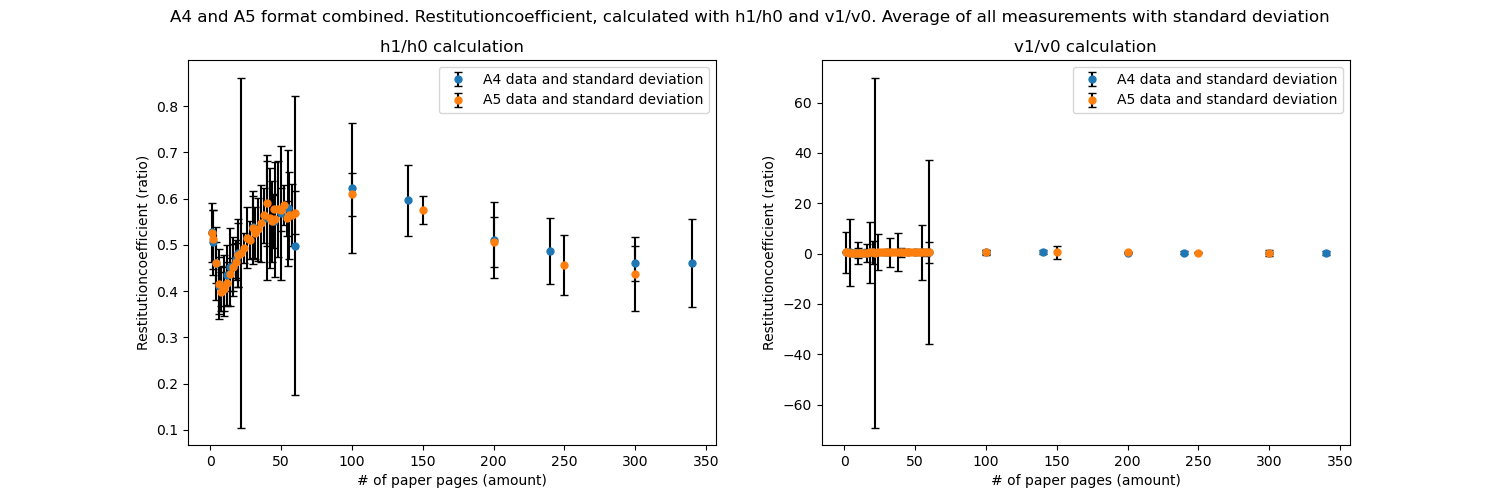
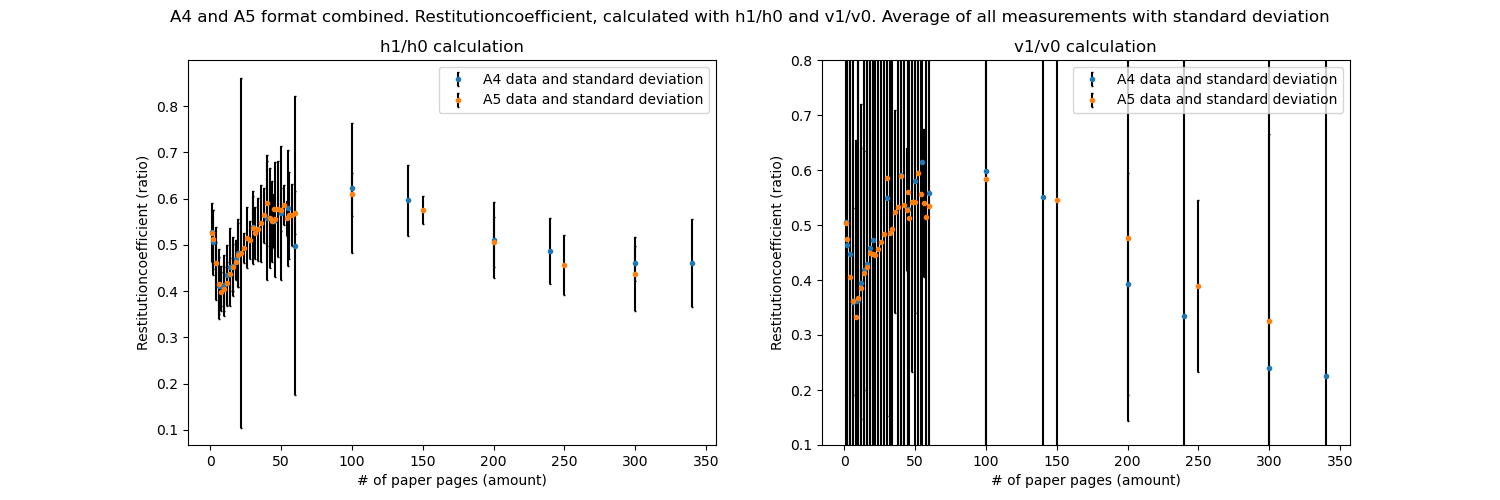
no changes (sync with laptop)

diff --git a/Code/AVG_SIGMA_PLOTTER.py b/Code/AVG_SIGMA_PLOTTER.py
@@ -9,13 +9,13 @@ import csv as csv
 import statistics as stat
 
 
-# A4_CSV = open('E:/Documents/GitHub/2025-Projects_Team-1-Bouncing-on-Paper-The-Surprising-Restitution-Coefficient-of-a-Paper-Stack-/Code/A4_sanitized_data.csv', 'r')
-# A5_B_CSV = open('E:/Documents/GitHub/2025-Projects_Team-1-Bouncing-on-Paper-The-Surprising-Restitution-Coefficient-of-a-Paper-Stack-/Code/A5_B_sanitized_data.csv', 'r')
-# A5_O_CSV = open('E:/Documents/GitHub/2025-Projects_Team-1-Bouncing-on-Paper-The-Surprising-Restitution-Coefficient-of-a-Paper-Stack-/Code/A5_O_sanitized_data.csv', 'r')
+A4_CSV = open('E:/Documents/GitHub/2025-Projects_Team-1-Bouncing-on-Paper-The-Surprising-Restitution-Coefficient-of-a-Paper-Stack-/Code/A4_sanitized_data.csv', 'r')
+A5_B_CSV = open('E:/Documents/GitHub/2025-Projects_Team-1-Bouncing-on-Paper-The-Surprising-Restitution-Coefficient-of-a-Paper-Stack-/Code/A5_B_sanitized_data.csv', 'r')
+A5_O_CSV = open('E:/Documents/GitHub/2025-Projects_Team-1-Bouncing-on-Paper-The-Surprising-Restitution-Coefficient-of-a-Paper-Stack-/Code/A5_O_sanitized_data.csv', 'r')
 
-A4_CSV = open('C:/Users/salad/Documents/GitHub/2025-Projects_Team-1-Bouncing-on-Paper-The-Surprising-Restitution-Coefficient-of-a-Paper-Stack-/Code/A4_sanitized_data.csv', 'r')
-A5_B_CSV = open('C:/Users/salad/Documents/GitHub/2025-Projects_Team-1-Bouncing-on-Paper-The-Surprising-Restitution-Coefficient-of-a-Paper-Stack-/Code/A5_B_sanitized_data.csv', 'r')
-A5_O_CSV = open('C:/Users/salad/Documents/GitHub/2025-Projects_Team-1-Bouncing-on-Paper-The-Surprising-Restitution-Coefficient-of-a-Paper-Stack-/Code/A5_O_sanitized_data.csv', 'r')
+# A4_CSV = open('C:/Users/salad/Documents/GitHub/2025-Projects_Team-1-Bouncing-on-Paper-The-Surprising-Restitution-Coefficient-of-a-Paper-Stack-/Code/A4_sanitized_data.csv', 'r')
+# A5_B_CSV = open('C:/Users/salad/Documents/GitHub/2025-Projects_Team-1-Bouncing-on-Paper-The-Surprising-Restitution-Coefficient-of-a-Paper-Stack-/Code/A5_B_sanitized_data.csv', 'r')
+# A5_O_CSV = open('C:/Users/salad/Documents/GitHub/2025-Projects_Team-1-Bouncing-on-Paper-The-Surprising-Restitution-Coefficient-of-a-Paper-Stack-/Code/A5_O_sanitized_data.csv', 'r')
 
 
 with A4_CSV as A4:
@@ -139,17 +139,18 @@ plt.figure(1, figsize=(15, 5))
 plt.suptitle('A4 and A5 format combined. Restitutioncoefficient, calculated with h1/h0 and v1/v0. Average of all measurements with standard deviation')
 plt.subplot(121)
 plt.title('h1/h0 calculation')
-plt.errorbar(A4_compressed_papier_lijst, A4_avg_h_lijst, yerr=A4_fout_h_lijst, capsize=3, fmt='o', ecolor = "black", label='A4 data and standard deviation', markersize='5')
-plt.errorbar(A5_compressed_papier_lijst, A5_avg_h_B_lijst, yerr=A5_fout_h_B_lijst, capsize=3, fmt='o', ecolor = "black", label='A5 data and standard deviation', markersize='5')
+plt.errorbar(A4_compressed_papier_lijst, A4_avg_h_lijst, yerr=A4_fout_h_lijst, capsize=2, fmt='o', ecolor = "black", label='A4 data and standard deviation', markersize='3')
+plt.errorbar(A5_compressed_papier_lijst, A5_avg_h_B_lijst, yerr=A5_fout_h_B_lijst, capsize=2, fmt='o', ecolor = "black", label='A5 data and standard deviation', markersize='3')
 plt.xlabel('# of paper pages (amount)')
 plt.ylabel('Restitutioncoefficient (ratio)')
 plt.legend()
 plt.subplot(122)
 plt.title('v1/v0 calculation')
-plt.errorbar(A4_compressed_papier_lijst, A4_avg_v_lijst, yerr=A4_fout_v_lijst, capsize=3, fmt='o', ecolor = "black", label='A4 data and standard deviation', markersize='5')
-plt.errorbar(A5_compressed_papier_lijst, A5_avg_v_B_lijst, yerr=A5_fout_v_B_lijst, capsize=3, fmt='o', ecolor = "black", label='A5 data and standard deviation', markersize='5')
+plt.errorbar(A4_compressed_papier_lijst, A4_avg_v_lijst, yerr=A4_fout_v_lijst, capsize=2, fmt='o', ecolor = "black", label='A4 data and standard deviation', markersize='3')
+plt.errorbar(A5_compressed_papier_lijst, A5_avg_v_B_lijst, yerr=A5_fout_v_B_lijst, capsize=2, fmt='o', ecolor = "black", label='A5 data and standard deviation', markersize='3')
 plt.xlabel('# of paper pages (amount)')
 plt.ylabel('Restitutioncoefficient (ratio)')
+plt.ylim(0.1, 0.8)
 plt.legend()
 plt.savefig('A4_AND_A5_COR_AVG_SIGMA')
 
@@ -158,15 +159,16 @@ plt.figure(2, figsize=(15, 5))
 plt.suptitle('A5 format, dropped from half the height of original measurements. Restitutioncoefficient, calculated with h1/h0 and v1/v0. Average of all measurements with standard deviation')
 plt.subplot(221)
 plt.title('h1/h0 calculation')
-plt.errorbar(A5_compressed_papier_lijst, A5_avg_h_O_lijst, yerr=A5_fout_h_O_lijst, capsize=3, fmt='o', ecolor = "black", label='A5', markersize='5', color='darkorange')
+plt.errorbar(A5_compressed_papier_lijst, A5_avg_h_O_lijst, yerr=A5_fout_h_O_lijst, capsize=2, fmt='o', ecolor = "black", label='A5', markersize='3', color='darkorange')
 plt.xlabel('# of paper pages (amount)')
 plt.ylabel('Restitutioncoefficient (ratio)')
 plt.legend()
 plt.subplot(222)
 plt.title('v1/v0 calculation')
-plt.errorbar(A5_compressed_papier_lijst, A5_avg_v_O_lijst, yerr=A5_fout_v_O_lijst, capsize=3, fmt='o', ecolor = "black", label='A5', markersize='5', color='darkorange')
+plt.errorbar(A5_compressed_papier_lijst, A5_avg_v_O_lijst, yerr=A5_fout_v_O_lijst, capsize=2, fmt='o', ecolor = "black", label='A5', markersize='3', color='darkorange')
 plt.xlabel('# of paper pages (amount)')
 plt.ylabel('Restitutioncoefficient (ratio)')
+plt.ylim(0.4, 0.7)
 plt.legend()
 plt.savefig('A5_COR_LOW_AVG_SIGMA')
 
